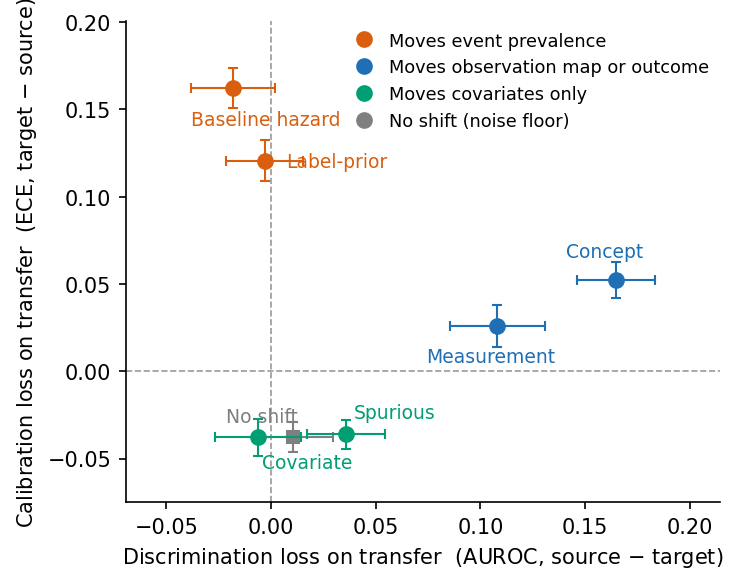
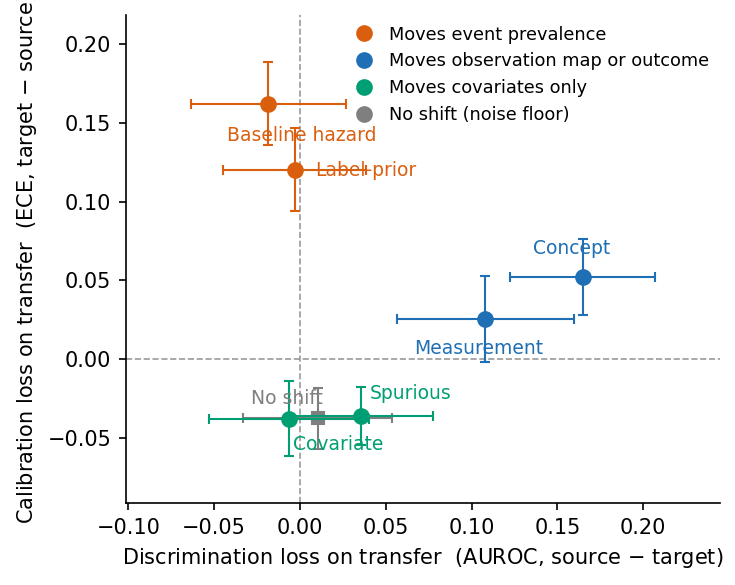
fig3: 95% intervals, not standard errors
The caption promises a 95% confidence interval on each axis and the figure drew
one standard error, so the bars were roughly half the width claimed. Uses
t(0.975, 9) = 2.262 rather than 1.96, since ten seeds is not asymptotic.

diff --git a/paper_assets/_gen_fig3_dissociation.py b/paper_assets/_gen_fig3_dissociation.py
@@ -79,6 +79,9 @@ plt.rcParams.update({
 })
 
 
+_T9 = 2.262          # t(0.975, df=9), for the ten-seed protocol
+
+
 def load_raw(prefix: str) -> list[dict]:
     p = os.path.join(TABLES, f"{prefix}_raw.csv")
     if not os.path.exists(p):
@@ -108,8 +111,10 @@ def paired_losses(rows: list[dict]) -> dict:
             continue
         out[s] = {
             "auroc_loss": float(a.mean()), "ece_loss": float(e.mean()),
-            "auroc_se": float(a.std(ddof=1) / np.sqrt(len(a))) if len(a) > 1 else 0.0,
-            "ece_se": float(e.std(ddof=1) / np.sqrt(len(e))) if len(e) > 1 else 0.0,
+            # 95% CI, matching every other figure in the paper. t rather than
+            # 1.96 because ten seeds is not asymptotic: t(0.975, 9) = 2.262.
+            "auroc_se": float(_T9 * a.std(ddof=1) / np.sqrt(len(a))) if len(a) > 1 else 0.0,
+            "ece_se": float(_T9 * e.std(ddof=1) / np.sqrt(len(e))) if len(e) > 1 else 0.0,
             "n_seeds": len(a),
         }
     return out
@@ -180,15 +185,15 @@ def main() -> None:
 
     vals = paired_losses(load_raw(args.prefix))
     print(f"fig3_dissociation da {args.prefix}_raw.csv\n")
-    print(f"  {'regime':<24}{'AUROC loss':>14}{'ECE loss':>14}{'seed':>7}")
+    print(f"  {'regime':<24}{'AUROC loss (95% CI)':>22}{'ECE loss (95% CI)':>22}{'seed':>7}")
     order = [s for _g, (ss, _c, _l) in GROUPS.items() for s in ss] + ["no_shift"]
     for s in order:
         if s not in vals:
             print(f"  {LABELS.get(s, s):<24}{'assente':>14}")
             continue
         v = vals[s]
-        print(f"  {LABELS.get(s, s):<24}{v['auroc_loss']:>+9.4f} ±{v['auroc_se']:.4f}"
-              f"{v['ece_loss']:>+9.4f} ±{v['ece_se']:.4f}{v['n_seeds']:>7}")
+        print(f"  {LABELS.get(s, s):<24}{v['auroc_loss']:>+13.4f} ±{v['auroc_se']:.4f}"
+              f"{v['ece_loss']:>+13.4f} ±{v['ece_se']:.4f}{v['n_seeds']:>7}")
     print()
     make_figure(vals, os.path.join(args.outdir, "fig3_dissociation"))
 
